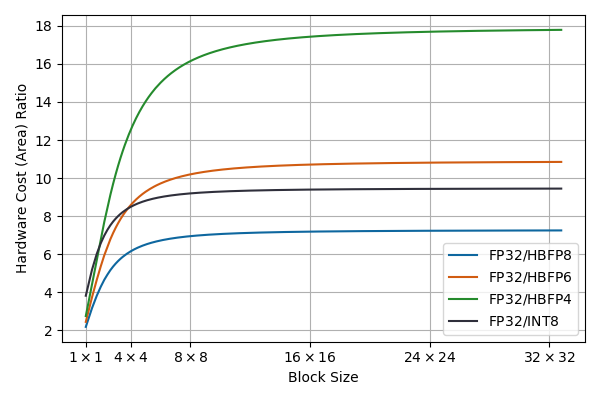
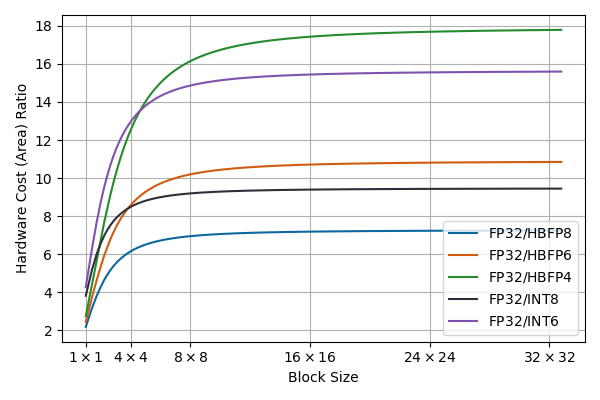
Add INT6

diff --git a/eda/main.py b/eda/main.py
@@ -253,9 +253,13 @@ def cs471_plots():
             ax.plot(block_sizes ** (1 / 2), fp_cost / hbfp_cost,
                     label=f"{fp_name}/HBFP${n}$")
         
-        int_cost = cost_int(8, FloatingPoint.bfloat16)(block_sizes)
-        ax.plot(block_sizes ** (1 / 2), fp_cost / int_cost,
+        int8_cost = cost_int(8, FloatingPoint.bfloat16)(block_sizes)
+        ax.plot(block_sizes ** (1 / 2), fp_cost / int8_cost,
                 label=f"{fp_name}/INT$8$")
+        
+        int6_cost = cost_int(6, FloatingPoint.bfloat16)(block_sizes)
+        ax.plot(block_sizes ** (1 / 2), fp_cost / int6_cost,
+                label=f"{fp_name}/INT$6$")
         
         ax.set_xticks(xtick_sqrts)
         ax.set_xticklabels([ f"${a}\\times{a}$" for a in xtick_sqrts ])
